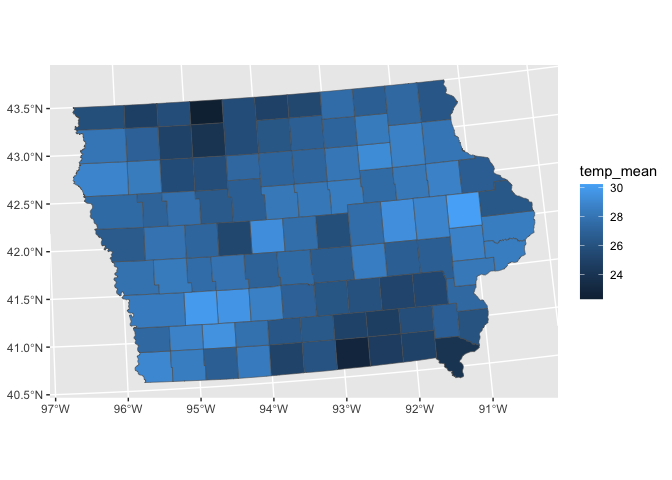
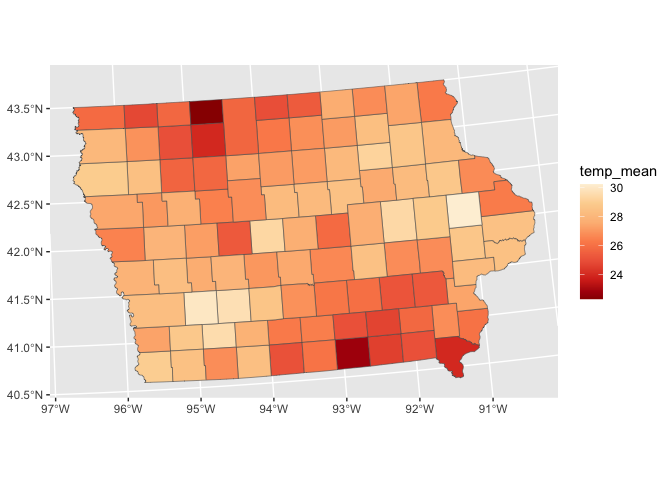
updated colour palette in readme

diff --git a/README.md b/README.md
@@ -4,6 +4,7 @@
 # ggdibbler <img src="man/figures/logo.png" align="right" height="139" alt="" />
 
 <!-- badges: start -->
+
 <!-- badges: end -->
 
 `ggdibbler` is an R package for implementing signal suppression in
@@ -52,7 +53,8 @@ toy_temp_mean <- toy_temp |>
 
 # plot it
 ggplot(toy_temp_mean) +
-  geom_sf(aes(geometry=county_geometry, fill=temp_mean)) 
+  geom_sf(aes(geometry=county_geometry, fill=temp_mean)) +
+  scale_fill_distiller(palette = "OrRd")
 ```
 
 <img src="man/figures/README-unnamed-chunk-3-1.png" width="100%" />
@@ -65,7 +67,8 @@ each estimate as a sample of values from its sampling distribution.
 toy_temp_dist |> 
   ggplot() + 
   geom_sf_sample(aes(geometry = county_geometry, fill=temp_dist), linewidth=0.1) + 
-  geom_sf(aes(geometry = county_geometry), fill=NA, linewidth=1)
+  geom_sf(aes(geometry = county_geometry), fill=NA, linewidth=1) +
+  scale_fill_distiller(palette = "OrRd")
 ```
 
 <img src="man/figures/README-unnamed-chunk-4-1.png" width="100%" />
@@ -73,8 +76,8 @@ toy_temp_dist |>
 ## Additions to the package
 
 As `ggdibbler` is designed to alter existing graphic types to accept
-distributions as inputs there is a near infinite number of that can be
-spat out. At the moment the focus is on alterations to `geom_sf`, but we
-are happy to add any other functionality that users would like to have
-as a ggplot geom. If you have a suggestion, feel free to add it in the
-github issues.
+distributions as inputs there is a near infinite number of plots that
+could be changed with the package. At the moment the focus is on
+alterations to `geom_sf`, but we are happy to add any other
+functionality that users would like to have as a ggplot geom. If you
+have a suggestion, feel free to add it in the github issues.
